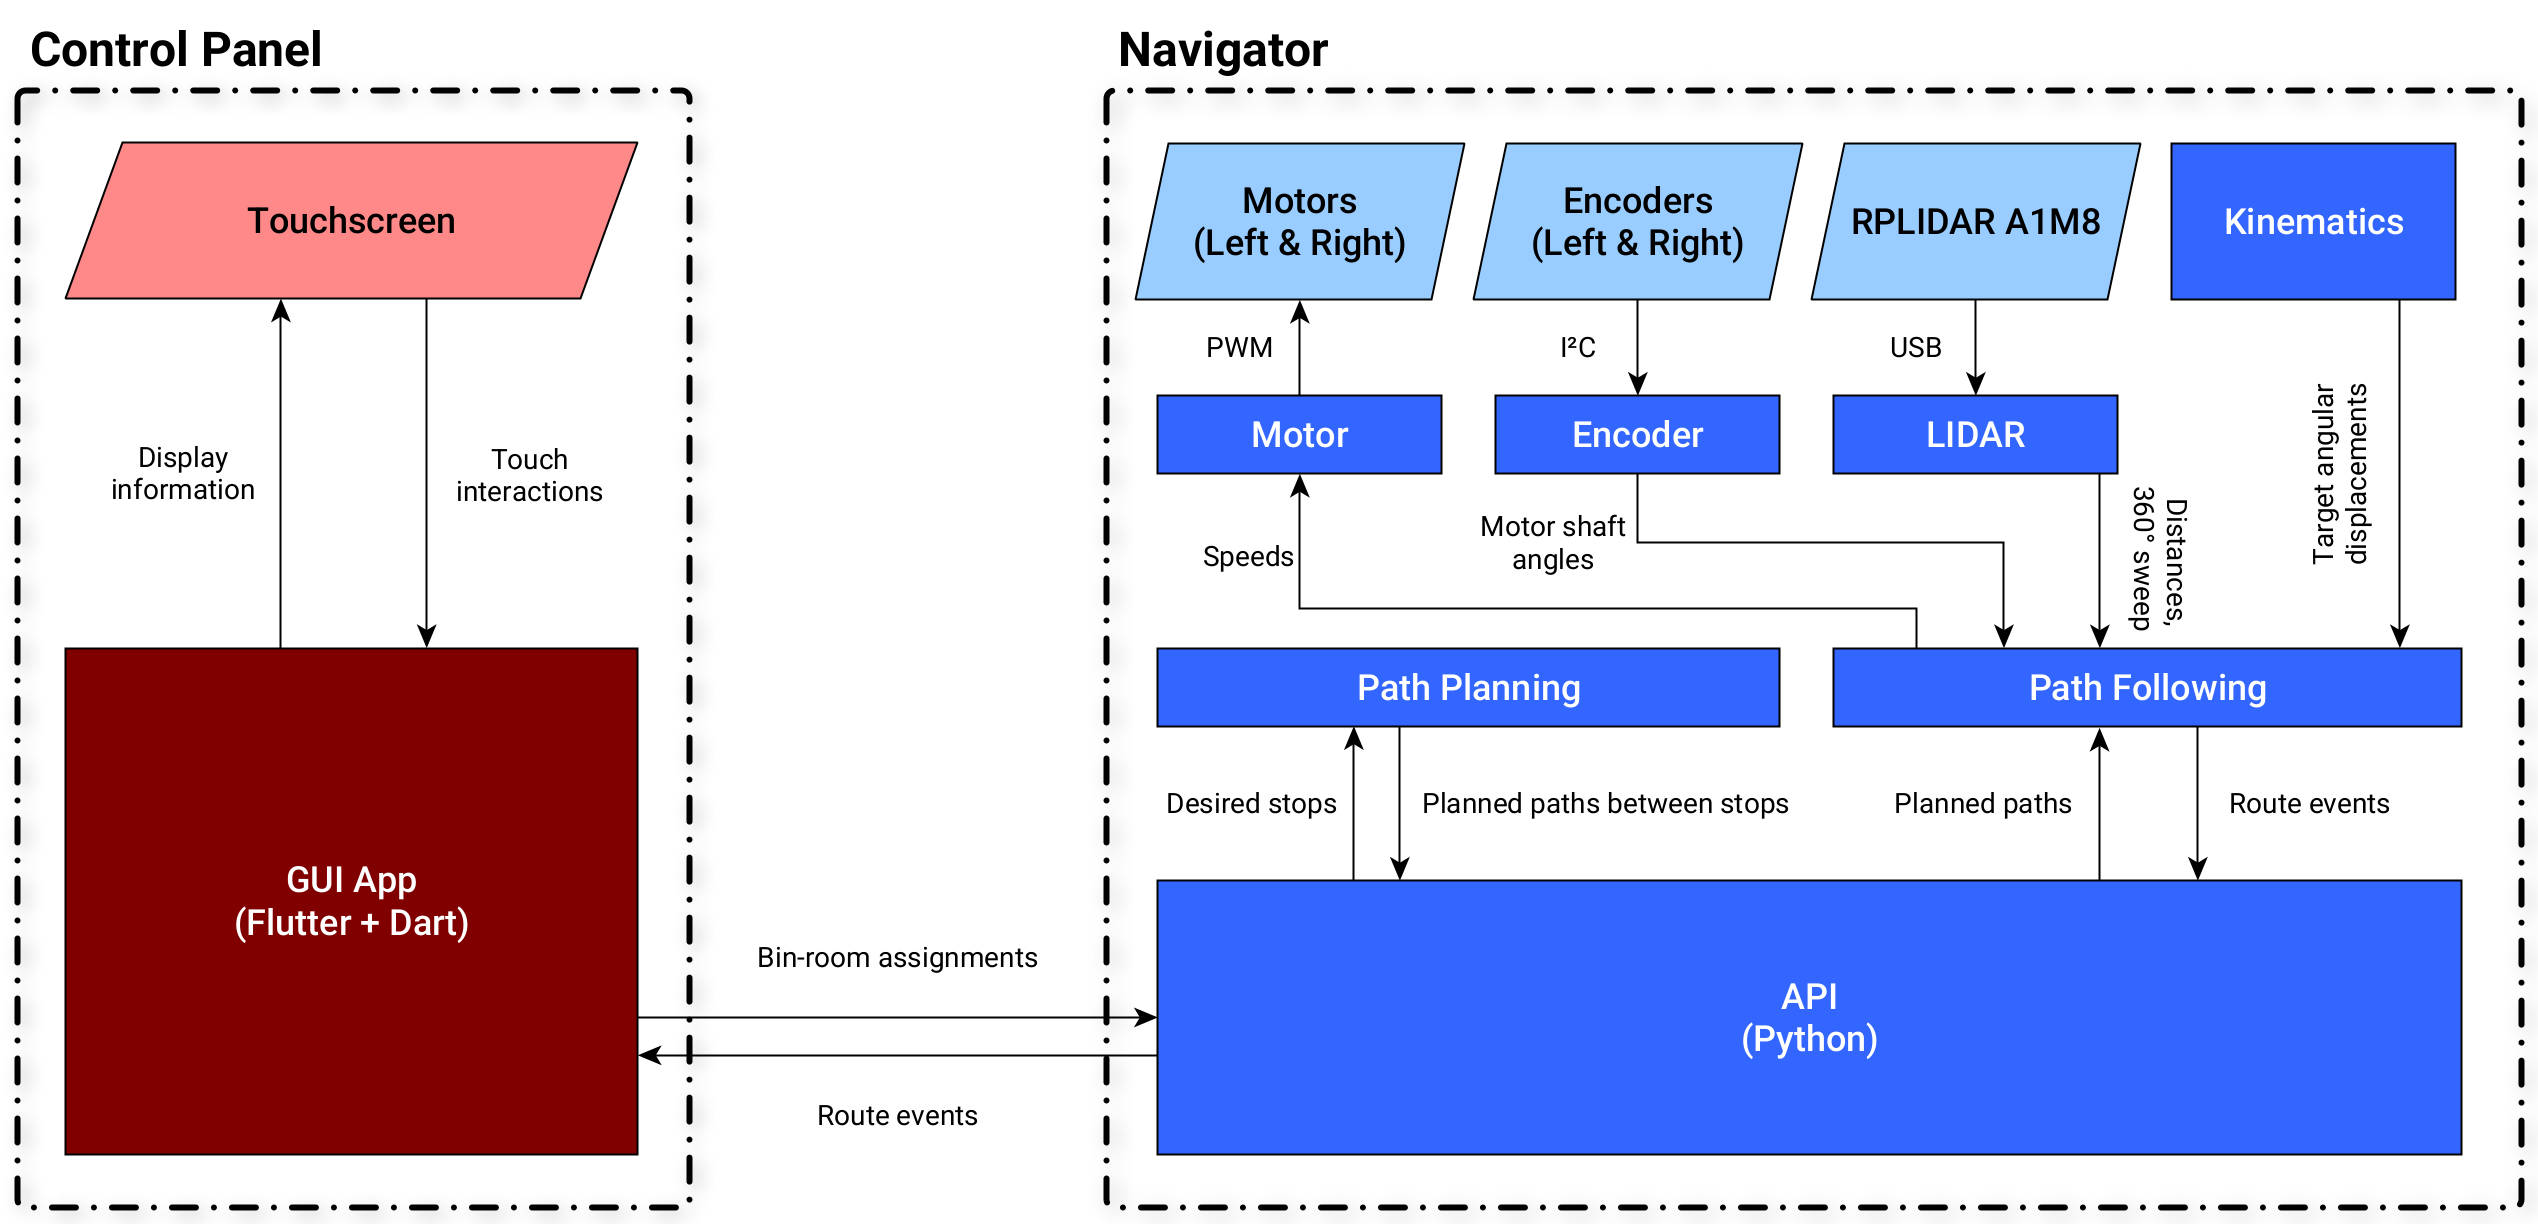
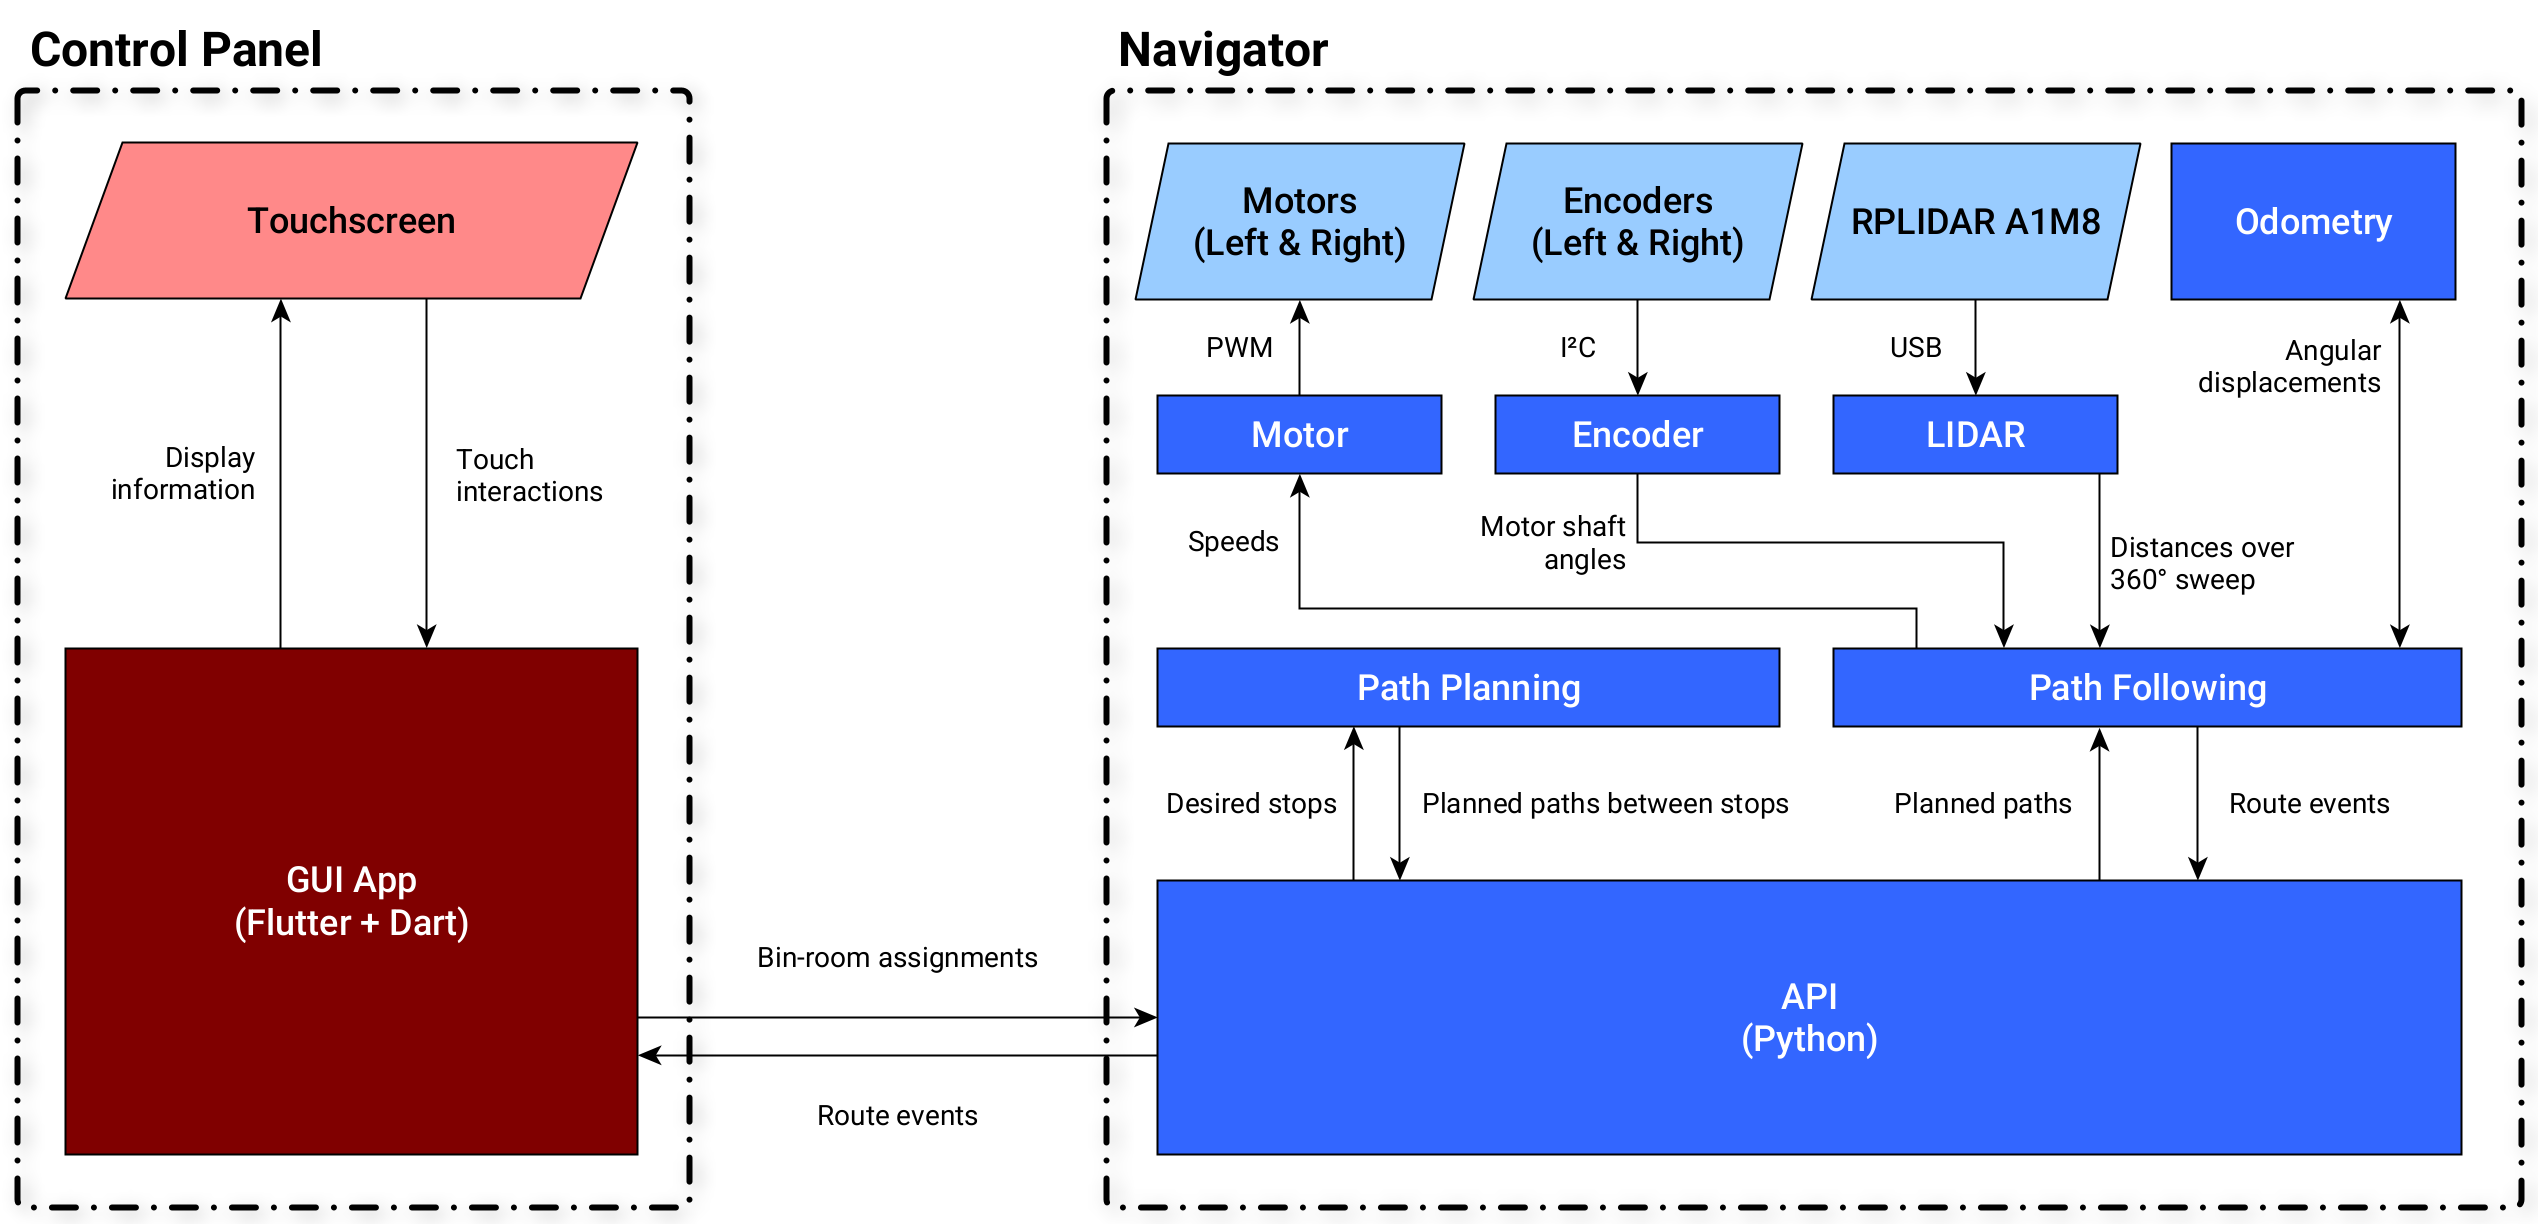
Mention odometry

diff --git a/software/README.md b/software/README.md
@@ -167,7 +167,7 @@ Paths are defined by the starting node ID, a right angle bracket, the ending nod
 ![](example-floorplan-graph.png)
 
 ## Path planning
-The path planning system takes a desired route, computes the most efficient paths, and breaks it down into simple local moves.
+The path planning system takes a desired route, computes the most efficient paths, and breaks it down into simple local moves. The navigation process relies heavily on odometry to determine its global pose (2D position & heading).
 
 1. [Control Panel](#control-panel) sets the desired route via the `POST /route` endpoint.
 1. Navigator waits for a connection to its UDP socket, signaling that the Control Panel is ready to begin delivery.
